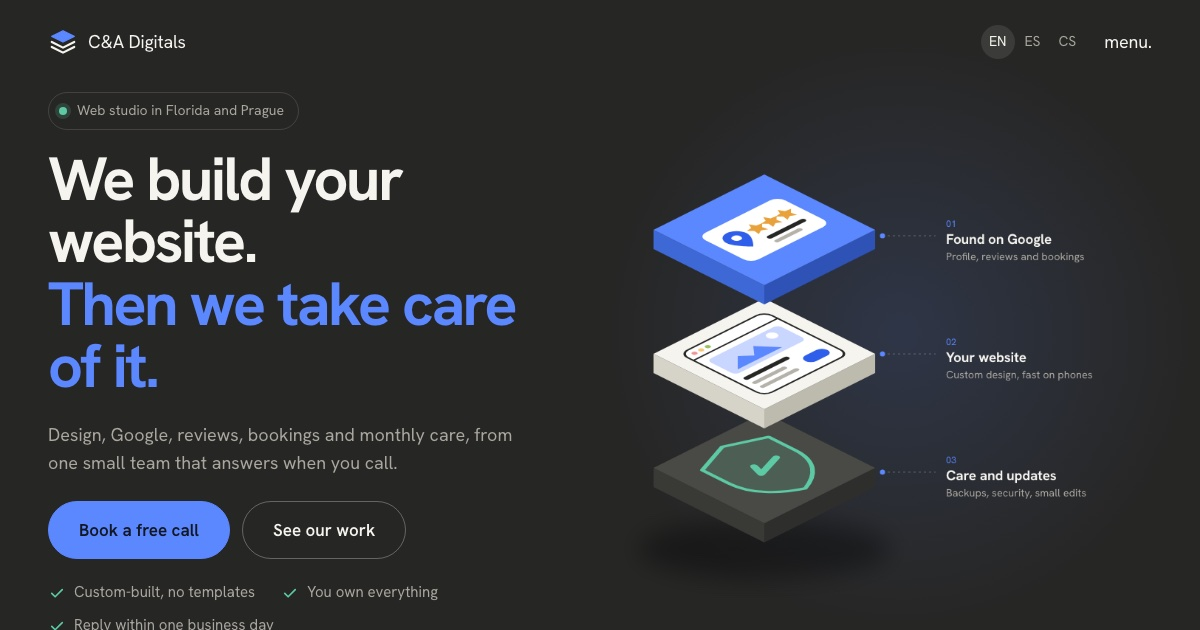
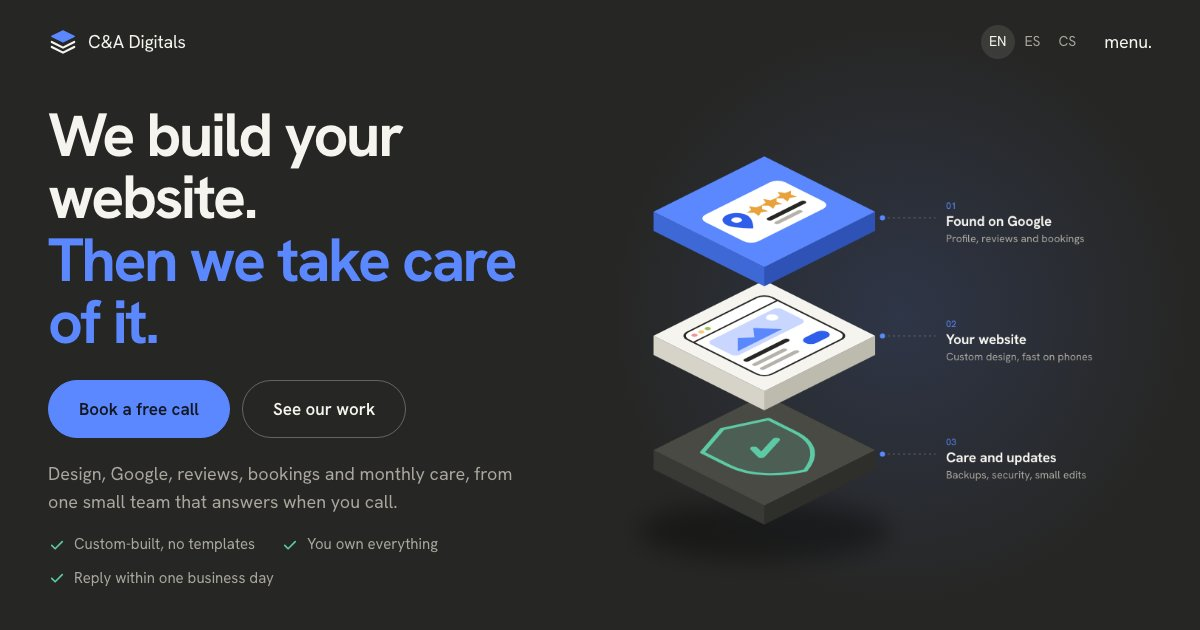
Drop the hero badge and put the buttons right under the headline
The 'Web studio in Florida and Prague' pill is gone in all three
languages. The two buttons now sit directly below the headline, with
the lead text and trust marks after them. Social preview image retaken.

diff --git a/site/style.css b/site/style.css
@@ -144,17 +144,12 @@ button { font: inherit; color: inherit; cursor: pointer; }
   background: radial-gradient(closest-side, rgba(91, 135, 255, 0.16), rgba(91, 135, 255, 0) 70%);
 }
 .lh > * { position: relative; z-index: 1; }
-.lh-badge {
-  display: inline-flex; align-items: center; gap: 10px; margin: 0 0 26px; padding: 7px 14px 7px 10px;
-  border: 1px solid var(--line); border-radius: 999px; color: var(--muted); font-size: 14px;
-}
-.lh-badge i { width: 8px; height: 8px; border-radius: 50%; background: #5DCAA5; box-shadow: 0 0 0 4px rgba(93, 202, 165, 0.18); }
 .lh-title { margin: 0; font-weight: 700; font-size: clamp(42px, 5.1vw, 90px); line-height: 1.02; letter-spacing: -0.04em; }
 .lh-title .accent { display: block; }
-.lh-lead { margin: 24px 0 0; max-width: 29em; color: var(--muted); font-size: clamp(18px, 1.4vw, 21px); }
-.lh-ctas { display: flex; flex-wrap: wrap; gap: 12px; margin-top: 32px; }
+.lh-lead { margin: 30px 0 0; max-width: 29em; color: var(--muted); font-size: clamp(18px, 1.4vw, 21px); }
+.lh-ctas { display: flex; flex-wrap: wrap; gap: 12px; margin-top: 36px; }
 .lh-ctas .btn { min-height: 58px; min-width: 0; padding: 0 30px; font-size: 17px; }
-.lh-trust { list-style: none; display: flex; flex-wrap: wrap; gap: 10px 26px; margin: 30px 0 0; padding: 0; font-size: 15px; color: var(--muted); }
+.lh-trust { list-style: none; display: flex; flex-wrap: wrap; gap: 10px 26px; margin: 24px 0 0; padding: 0; font-size: 15px; color: var(--muted); }
 .lh-trust li { display: inline-flex; align-items: center; gap: 8px; }
 .lh-trust svg { width: 18px; height: 18px; flex: none; fill: none; stroke: #5DCAA5; stroke-width: 2.2; stroke-linecap: round; stroke-linejoin: round; }
 
@@ -185,9 +180,9 @@ button { font: inherit; color: inherit; cursor: pointer; }
 /* short laptop screens: keep the whole hero on the first screen */
 @media (max-height: 760px) and (min-width: 1001px) {
   .lh { padding-top: 92px; padding-bottom: 28px; }
-  .lh-badge { margin-bottom: 18px; }
-  .lh-ctas { margin-top: 24px; }
-  .lh-trust { margin-top: 22px; }
+  .lh-ctas { margin-top: 26px; }
+  .lh-lead { margin-top: 22px; }
+  .lh-trust { margin-top: 18px; }
 }
 
 /* Proof strip right under the hero */

diff --git a/site/cs/index.html b/site/cs/index.html
@@ -67,7 +67,7 @@
 }
 </script>
 <link rel="preload" href="../fonts/hanken-grotesk-latin.woff2" as="font" type="font/woff2" crossorigin>
-<link rel="stylesheet" href="../style.css?v=27">
+<link rel="stylesheet" href="../style.css?v=28">
 <script>document.documentElement.classList.add('js')</script>
 </head>
 <body>
@@ -107,13 +107,12 @@
   <!-- Hero: the logo's three layers, exploded -->
   <section class="lh" id="top">
     <div class="lh-copy">
-      <p class="lh-badge"><i aria-hidden="true"></i>Webové studio na Floridě a v Praze</p>
       <h1 class="lh-title">Postavíme vám web. <span class="accent">A pak se o něj postaráme.</span></h1>
-      <p class="lh-lead">Design, Google, recenze, rezervace i měsíční péče od malého týmu, který zvedne telefon, když zavoláte.</p>
       <div class="lh-ctas">
         <a class="btn magnetic" href="#contact"><span>Domluvit hovor zdarma</span></a>
         <a class="btn btn-ghost magnetic" href="#work"><span>Ukázky práce</span></a>
       </div>
+      <p class="lh-lead">Design, Google, recenze, rezervace i měsíční péče od malého týmu, který zvedne telefon, když zavoláte.</p>
       <ul class="lh-trust">
         <li><svg viewBox="0 0 24 24" aria-hidden="true"><path d="M5 12.5l4.5 4.5L19 7.5"/></svg>Na míru, žádné šablony</li>
         <li><svg viewBox="0 0 24 24" aria-hidden="true"><path d="M5 12.5l4.5 4.5L19 7.5"/></svg>Všechno patří vám</li>

diff --git a/site/es/index.html b/site/es/index.html
@@ -67,7 +67,7 @@
 }
 </script>
 <link rel="preload" href="../fonts/hanken-grotesk-latin.woff2" as="font" type="font/woff2" crossorigin>
-<link rel="stylesheet" href="../style.css?v=27">
+<link rel="stylesheet" href="../style.css?v=28">
 <script>document.documentElement.classList.add('js')</script>
 </head>
 <body>
@@ -107,13 +107,12 @@
   <!-- Hero: the logo's three layers, exploded -->
   <section class="lh" id="top">
     <div class="lh-copy">
-      <p class="lh-badge"><i aria-hidden="true"></i>Estudio web en Florida y Praga</p>
       <h1 class="lh-title">Creamos su sitio web. <span class="accent">Y luego lo cuidamos.</span></h1>
-      <p class="lh-lead">Diseño, Google, reseñas, reservas y mantenimiento mensual, de un equipo pequeño que contesta cuando usted llama.</p>
       <div class="lh-ctas">
         <a class="btn magnetic" href="#contact"><span>Agende una llamada gratis</span></a>
         <a class="btn btn-ghost magnetic" href="#work"><span>Ver nuestro trabajo</span></a>
       </div>
+      <p class="lh-lead">Diseño, Google, reseñas, reservas y mantenimiento mensual, de un equipo pequeño que contesta cuando usted llama.</p>
       <ul class="lh-trust">
         <li><svg viewBox="0 0 24 24" aria-hidden="true"><path d="M5 12.5l4.5 4.5L19 7.5"/></svg>Hecho a medida, sin plantillas</li>
         <li><svg viewBox="0 0 24 24" aria-hidden="true"><path d="M5 12.5l4.5 4.5L19 7.5"/></svg>Todo es suyo</li>

diff --git a/site/index.html b/site/index.html
@@ -67,7 +67,7 @@
 }
 </script>
 <link rel="preload" href="fonts/hanken-grotesk-latin.woff2" as="font" type="font/woff2" crossorigin>
-<link rel="stylesheet" href="style.css?v=27">
+<link rel="stylesheet" href="style.css?v=28">
 <script>document.documentElement.classList.add('js')</script>
 </head>
 <body>
@@ -107,13 +107,12 @@
   <!-- Hero: the logo's three layers, exploded -->
   <section class="lh" id="top">
     <div class="lh-copy">
-      <p class="lh-badge"><i aria-hidden="true"></i>Web studio in Florida and Prague</p>
       <h1 class="lh-title">We build your website. <span class="accent">Then we take care of it.</span></h1>
-      <p class="lh-lead">Design, Google, reviews, bookings and monthly care, from one small team that answers when you call.</p>
       <div class="lh-ctas">
         <a class="btn magnetic" href="#contact"><span>Book a free call</span></a>
         <a class="btn btn-ghost magnetic" href="#work"><span>See our work</span></a>
       </div>
+      <p class="lh-lead">Design, Google, reviews, bookings and monthly care, from one small team that answers when you call.</p>
       <ul class="lh-trust">
         <li><svg viewBox="0 0 24 24" aria-hidden="true"><path d="M5 12.5l4.5 4.5L19 7.5"/></svg>Custom-built, no templates</li>
         <li><svg viewBox="0 0 24 24" aria-hidden="true"><path d="M5 12.5l4.5 4.5L19 7.5"/></svg>You own everything</li>

diff --git a/i18n/build.py b/i18n/build.py
@@ -64,11 +64,7 @@ INDEX = [
     ('<small>05</small>How we work</a>', '<small>05</small>Cómo trabajamos</a>', '<small>05</small>Jak pracujeme</a>'),
     ('<small>06</small>Contact</a>', '<small>06</small>Contacto</a>', '<small>06</small>Kontakt</a>'),
 
-    # hero
     # hero (the logo's three layers)
-    ('<i aria-hidden="true"></i>Web studio in Florida and Prague</p>',
-     '<i aria-hidden="true"></i>Estudio web en Florida y Praga</p>',
-     '<i aria-hidden="true"></i>Webové studio na Floridě a v Praze</p>'),
     ('<h1 class="lh-title">We build your website. <span class="accent">Then we take care of it.</span></h1>',
      '<h1 class="lh-title">Creamos su sitio web. <span class="accent">Y luego lo cuidamos.</span></h1>',
      '<h1 class="lh-title">Postavíme vám web. <span class="accent">A pak se o něj postaráme.</span></h1>'),

diff --git a/CLAUDE.md b/CLAUDE.md
@@ -50,7 +50,7 @@ tmavá, obří nadpisy verzálkami, hodně animací. Statický web bez build ste
 | Soubor | Co to je |
 |---|---|
 | `site/` | **jen tahle složka jde na web** (Cloudflare Pages „build output“); `CLAUDE.md`, `functions/` a `wrangler.toml` zůstávají mimo |
-| `site/index.html` | celá stránka: **Hero „tři vrstvy“** (od 25. 10. 2026: vlevo badge, nadpis „We build your website. Then we take care of it.“, tlačítka, 3 odznaky důvěry; vpravo SVG s rozloženými vrstvami loga v izometrii — modrá Found on Google, krémová Your website, tmavá Care and updates, ikony na horních plochách přes matici `matrix(1.5,-0.75,1.5,0.75,-150,0)`, popisky vpravo, na mobilu jako seznam; vrstvy při načtení spadnou, jemně se vznáší, při scrollu se rozestoupí) → pás „Recently launched“ → pás služeb → Intro → Work → **About** (Chris a Adam bez fotek; od 25. 10. 2026 **jen křestní jména** i v JSON-LD a texty, že **všechno děláme oba společně** — žádné dělení rolí, oba „Co-founder“) → Services → Packages → How we work → Contact „I need…“ → patička |
+| `site/index.html` | celá stránka: **Hero „tři vrstvy“** (od 25. 10. 2026: vlevo nadpis „We build your website. Then we take care of it.“, hned pod ním tlačítka Book a free call / See our work, pak krátký text a 3 odznaky důvěry — štítek „Web studio in Florida and Prague“ nad nadpisem Adam nechtěl, odebrán; vpravo SVG s rozloženými vrstvami loga v izometrii — modrá Found on Google, krémová Your website, tmavá Care and updates, ikony na horních plochách přes matici `matrix(1.5,-0.75,1.5,0.75,-150,0)`, popisky vpravo, na mobilu jako seznam; vrstvy při načtení spadnou, jemně se vznáší, při scrollu se rozestoupí) → pás „Recently launched“ → pás služeb → Intro → Work → **About** (Chris a Adam bez fotek; od 25. 10. 2026 **jen křestní jména** i v JSON-LD a texty, že **všechno děláme oba společně** — žádné dělení rolí, oba „Co-founder“) → Services → Packages → How we work → Contact „I need…“ → patička |
 | `site/style.css` | vzhled; barvy jako proměnné v `:root` (stejné jako logo) |
 | `site/js/main.js` | animace, interakce a odeslání formuláře |
 | `site/images/og.jpg` | náhled odkazu (iMessage, WhatsApp, Messenger): screenshot úvodu 1200×630; v `<head>` jako `og:image` s absolutní adresou na github.io — při přesunu na vlastní doménu změnit |
